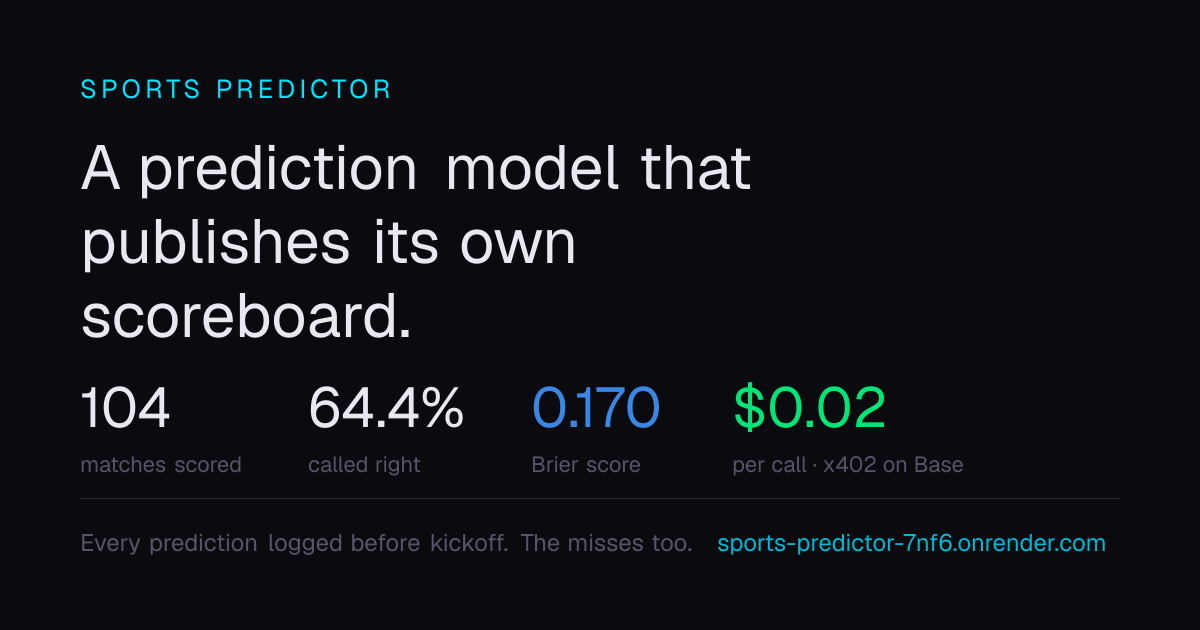
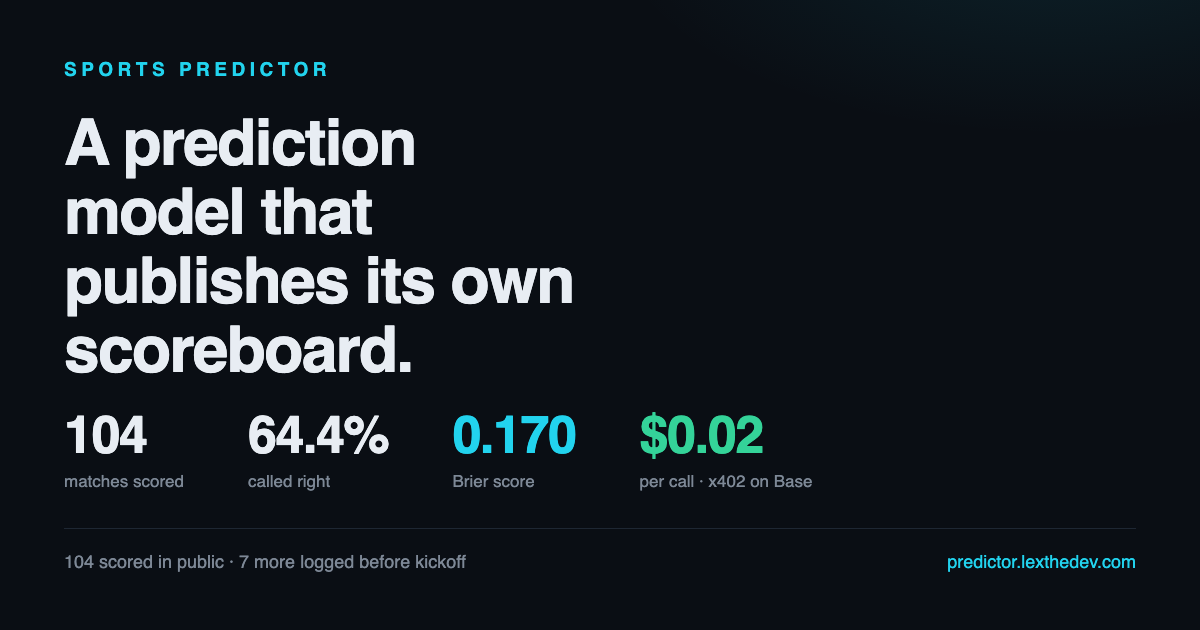
Regenerate the social card from live data, and give it a source
The card was a committed PNG with nothing keeping it honest, so it drifted
twice: it read 'Every prediction logged before kickoff. The misses too.'
long after that stopped being true of the World Cup rows, and it showed the
old sports-predictor-7nf6.onrender.com hostname months after the site moved
to predictor.lexthedev.com. Neither was catchable in review, because the
claims lived in pixels.

scripts/make-og.mjs now generates it, fetching /api/trackrecord at build time
so the numbers cannot disagree with the API they describe, and choosing the
footer from the data: with standing predictions it reads '104 scored in
public - 7 more logged before kickoff', otherwise it drops the pre-kickoff
claim entirely.

Also fixes the og:image:alt, which carried the same stale accuracy line.

Changed region(s): [[0.0308, 0.0905, 0.8017, 0.7841], [0.0617, 0.8444, 0.9558, 0.9048]]

diff --git a/frontend/app/layout.tsx b/frontend/app/layout.tsx
@@ -16,7 +16,7 @@ const geistMono = Geist_Mono({
 const SITE = "https://predictor.lexthedev.com";
 const TITLE = "Sports Predictor — predictions scored in public";
 const IMAGE_ALT =
-  "Sports Predictor — 104 matches scored in public, 64.4% accuracy";
+  "Sports Predictor — 104 matches scored in public, plus predictions logged before kickoff";
 
 // This string is the first thing a reader sees in a link preview or a search
 // result. The old copy said "AI-powered sports betting analysis" — the exact
